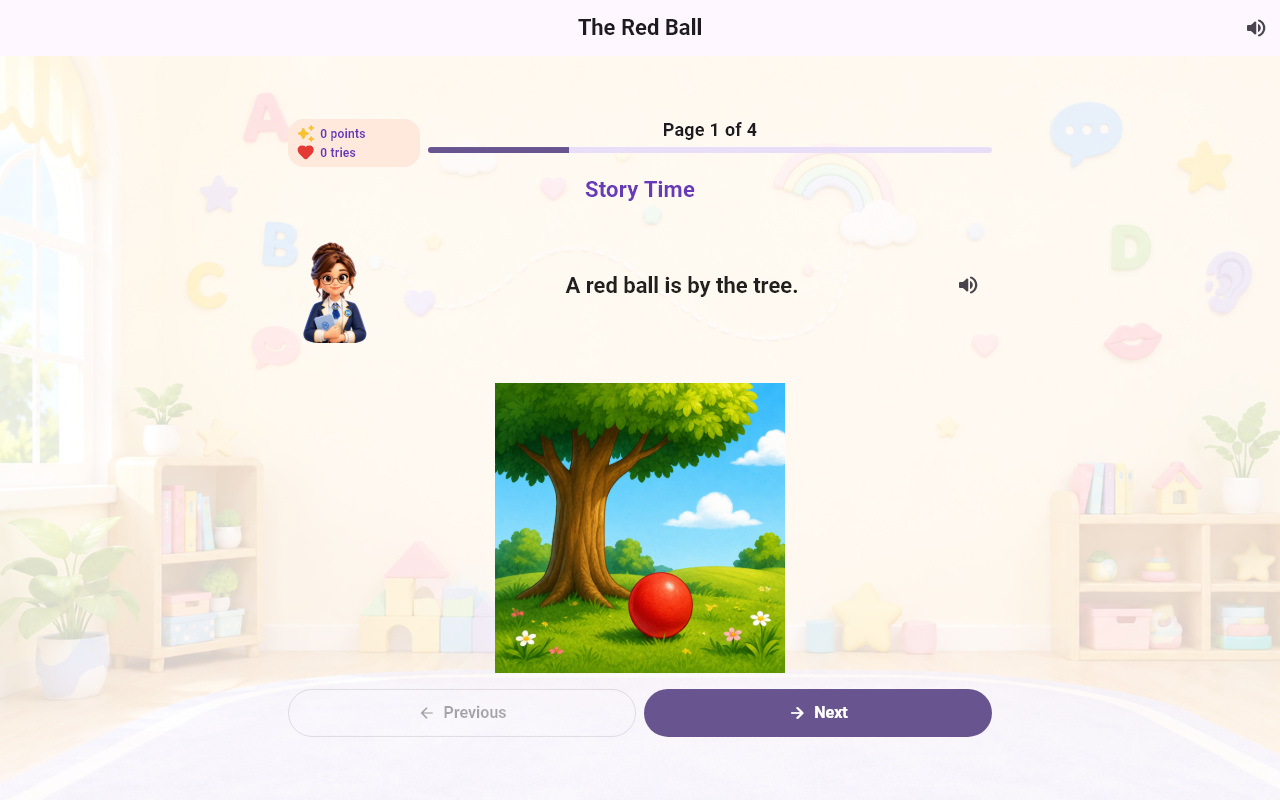
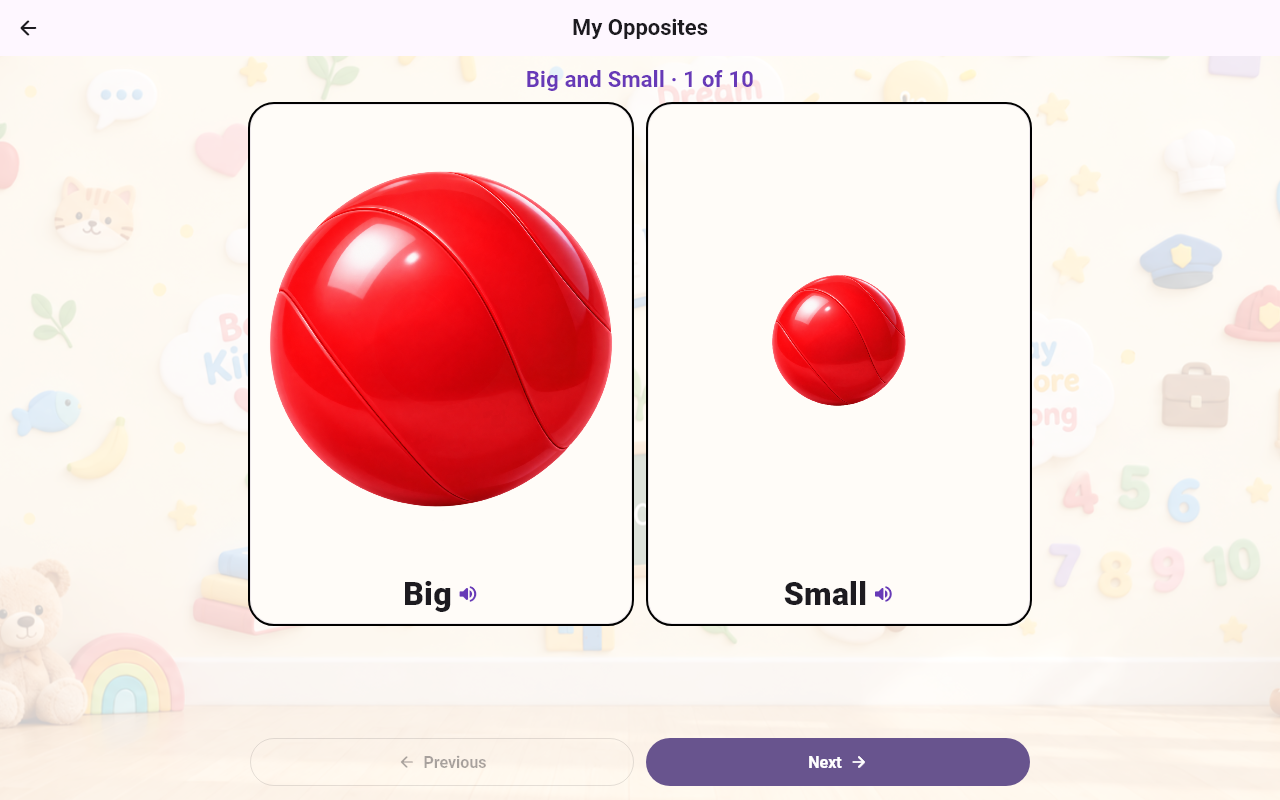
fix(gallery): update Nature Deer a11y, Bookshelf Opposites, partially coloured sailboat, and responsive a11y

diff --git a/index.html b/index.html
@@ -202,11 +202,11 @@
               <article class="gameplay-card" data-slide="0">
                 <div class="gameplay-card-media gameplay-dual-media" data-dual-preview>
                   <div class="gameplay-dual-switcher" role="tablist" aria-label="Mathematics activity previews">
-                    <button type="button" class="gameplay-dual-tab is-active" role="tab" aria-selected="true" aria-controls="math-preview-1" id="math-tab-1" data-preview-target="0">
+                    <button type="button" class="gameplay-dual-tab is-active" role="tab" aria-selected="true" aria-controls="math-preview-1" id="math-tab-1" data-preview-target="0" tabindex="0">
                       <span class="gameplay-dual-tab-dot" aria-hidden="true"></span>
                       Sample 1: Basket Counting
                     </button>
-                    <button type="button" class="gameplay-dual-tab" role="tab" aria-selected="false" aria-controls="math-preview-2" id="math-tab-2" data-preview-target="1">
+                    <button type="button" class="gameplay-dual-tab" role="tab" aria-selected="false" aria-controls="math-preview-2" id="math-tab-2" data-preview-target="1" tabindex="-1">
                       <span class="gameplay-dual-tab-dot" aria-hidden="true"></span>
                       Sample 2: Comparing
                     </button>
@@ -264,11 +264,11 @@
               <article class="gameplay-card" data-slide="1">
                 <div class="gameplay-card-media gameplay-dual-media" data-dual-preview>
                   <div class="gameplay-dual-switcher" role="tablist" aria-label="English Phonics activity previews">
-                    <button type="button" class="gameplay-dual-tab is-active" role="tab" aria-selected="true" aria-controls="english-preview-1" id="english-tab-1" data-preview-target="0">
+                    <button type="button" class="gameplay-dual-tab is-active" role="tab" aria-selected="true" aria-controls="english-preview-1" id="english-tab-1" data-preview-target="0" tabindex="0">
                       <span class="gameplay-dual-tab-dot" aria-hidden="true"></span>
                       Sample 1: Blend SHIP
                     </button>
-                    <button type="button" class="gameplay-dual-tab" role="tab" aria-selected="false" aria-controls="english-preview-2" id="english-tab-2" data-preview-target="1">
+                    <button type="button" class="gameplay-dual-tab" role="tab" aria-selected="false" aria-controls="english-preview-2" id="english-tab-2" data-preview-target="1" tabindex="-1">
                       <span class="gameplay-dual-tab-dot" aria-hidden="true"></span>
                       Sample 2: Letter Sounds
                     </button>
@@ -326,11 +326,11 @@
               <article class="gameplay-card" data-slide="2">
                 <div class="gameplay-card-media gameplay-dual-media" data-dual-preview>
                   <div class="gameplay-dual-switcher" role="tablist" aria-label="Creative Easel activity previews">
-                    <button type="button" class="gameplay-dual-tab is-active" role="tab" aria-selected="true" aria-controls="easel-preview-1" id="easel-tab-1" data-preview-target="0">
+                    <button type="button" class="gameplay-dual-tab is-active" role="tab" aria-selected="true" aria-controls="easel-preview-1" id="easel-tab-1" data-preview-target="0" tabindex="0">
                       <span class="gameplay-dual-tab-dot" aria-hidden="true"></span>
                       Sample 1: Shape Tracing
                     </button>
-                    <button type="button" class="gameplay-dual-tab" role="tab" aria-selected="false" aria-controls="easel-preview-2" id="easel-tab-2" data-preview-target="1">
+                    <button type="button" class="gameplay-dual-tab" role="tab" aria-selected="false" aria-controls="easel-preview-2" id="easel-tab-2" data-preview-target="1" tabindex="-1">
                       <span class="gameplay-dual-tab-dot" aria-hidden="true"></span>
                       Sample 2: Colour &amp; Paint
                     </button>
@@ -354,10 +354,10 @@
                       </button>
                     </div>
                     <div class="gameplay-preview-frame" role="tabpanel" id="easel-preview-2" aria-labelledby="easel-tab-2" data-preview-index="1">
-                      <button type="button" class="gameplay-zoom-btn" aria-label="Enlarge Creative Easel Colour and Paint screenshot" data-zoom-src="assets/screenshots/playroom_easel_paint.png" data-zoom-title="Creative Easel · Colour &amp; Paint" data-zoom-benefit="Open-ended digital colouring with tactile palettes and custom brush widths encourages creative expression, focus, and visual aesthetics.">
+                      <button type="button" class="gameplay-zoom-btn" aria-label="Enlarge Creative Easel Colour and Paint screenshot" data-zoom-src="assets/screenshots/playroom_easel_paint.png" data-zoom-title="Creative Easel · Colour &amp; Paint (Sailboat)" data-zoom-benefit="Open-ended digital colouring with tactile palettes and custom brush widths encourages creative expression, focus, and visual aesthetics.">
                         <img
                           src="assets/screenshots/playroom_easel_paint.png"
-                          alt="MindAgo Creative Easel Colour and Paint activity showing a sailboat canvas, colour palette, and paintbrush tools"
+                          alt="MindAgo Creative Easel Colour &amp; Paint activity showing partially coloured sailboat with active paint palette and brush tools"
                           width="1280"
                           height="800"
                           loading="lazy"
@@ -388,11 +388,11 @@
               <article class="gameplay-card" data-slide="3">
                 <div class="gameplay-card-media gameplay-dual-media" data-dual-preview>
                   <div class="gameplay-dual-switcher" role="tablist" aria-label="Building Blocks activity previews">
-                    <button type="button" class="gameplay-dual-tab is-active" role="tab" aria-selected="true" aria-controls="blocks-preview-1" id="blocks-tab-1" data-preview-target="0">
+                    <button type="button" class="gameplay-dual-tab is-active" role="tab" aria-selected="true" aria-controls="blocks-preview-1" id="blocks-tab-1" data-preview-target="0" tabindex="0">
                       <span class="gameplay-dual-tab-dot" aria-hidden="true"></span>
                       Sample 1: Cat Puzzle
                     </button>
-                    <button type="button" class="gameplay-dual-tab" role="tab" aria-selected="false" aria-controls="blocks-preview-2" id="blocks-tab-2" data-preview-target="1">
+                    <button type="button" class="gameplay-dual-tab" role="tab" aria-selected="false" aria-controls="blocks-preview-2" id="blocks-tab-2" data-preview-target="1" tabindex="-1">
                       <span class="gameplay-dual-tab-dot" aria-hidden="true"></span>
                       Sample 2: Silhouette Match
                     </button>
@@ -450,13 +450,13 @@
               <article class="gameplay-card" data-slide="4">
                 <div class="gameplay-card-media gameplay-dual-media" data-dual-preview>
                   <div class="gameplay-dual-switcher" role="tablist" aria-label="Bookshelf activity previews">
-                    <button type="button" class="gameplay-dual-tab is-active" role="tab" aria-selected="true" aria-controls="bookshelf-preview-1" id="bookshelf-tab-1" data-preview-target="0">
+                    <button type="button" class="gameplay-dual-tab is-active" role="tab" aria-selected="true" aria-controls="bookshelf-preview-1" id="bookshelf-tab-1" data-preview-target="0" tabindex="0">
                       <span class="gameplay-dual-tab-dot" aria-hidden="true"></span>
                       Sample 1: First Words
                     </button>
-                    <button type="button" class="gameplay-dual-tab" role="tab" aria-selected="false" aria-controls="bookshelf-preview-2" id="bookshelf-tab-2" data-preview-target="1">
+                    <button type="button" class="gameplay-dual-tab" role="tab" aria-selected="false" aria-controls="bookshelf-preview-2" id="bookshelf-tab-2" data-preview-target="1" tabindex="-1">
                       <span class="gameplay-dual-tab-dot" aria-hidden="true"></span>
-                      Sample 2: Storybook
+                      Sample 2: Opposites
                     </button>
                   </div>
                   <div class="gameplay-dual-frames">
@@ -478,16 +478,16 @@
                       </button>
                     </div>
                     <div class="gameplay-preview-frame" role="tabpanel" id="bookshelf-preview-2" aria-labelledby="bookshelf-tab-2" data-preview-index="1">
-                      <button type="button" class="gameplay-zoom-btn" aria-label="Enlarge Bookshelf Illustrated Storybook screenshot" data-zoom-src="assets/screenshots/playroom_bookshelf_story.png" data-zoom-title="Bookshelf · Illustrated Storybook (The Red Ball)" data-zoom-benefit="Sentence-level read-aloud storybooks build early listening comprehension, story sequencing, and sentence structure with comforting narrated story time.">
+                      <button type="button" class="gameplay-zoom-btn" aria-label="Enlarge Bookshelf My Opposites interactive book screenshot" data-zoom-src="assets/screenshots/playroom_bookshelf_story.png" data-zoom-title="Bookshelf · Interactive Reader (My Opposites)" data-zoom-benefit="Paired concept picture books introduce comparative vocabulary, early language concepts, and auditory pronunciation in a calming, child-directed format.">
                         <img
                           src="assets/screenshots/playroom_bookshelf_story.png"
-                          alt="MindAgo Bookshelf Story Time page showing The Red Ball illustrated book page with Professor Mindy reading narration"
+                          alt="MindAgo Bookshelf My Opposites interactive book page comparing Big and Small with illustrated concept cards and spoken pronunciation"
                           width="1280"
                           height="800"
                           loading="lazy"
                           decoding="async"
                         >
-                        <span class="gameplay-preview-pill" aria-hidden="true">2. Storybook</span>
+                        <span class="gameplay-preview-pill" aria-hidden="true">2. Opposites</span>
                         <span class="gameplay-zoom-hint" aria-hidden="true">
                           <svg width="14" height="14" viewBox="0 0 24 24" fill="none" stroke="currentColor" stroke-width="2.5" aria-hidden="true"><circle cx="11" cy="11" r="8"></circle><line x1="21" y1="21" x2="16.65" y2="16.65"></line><line x1="11" y1="8" x2="11" y2="14"></line><line x1="8" y1="11" x2="14" y2="11"></line></svg>
                           Enlarge
@@ -512,11 +512,11 @@
               <article class="gameplay-card" data-slide="5">
                 <div class="gameplay-card-media gameplay-dual-media" data-dual-preview>
                   <div class="gameplay-dual-switcher" role="tablist" aria-label="Knowledge Egg activity previews">
-                    <button type="button" class="gameplay-dual-tab is-active" role="tab" aria-selected="true" aria-controls="egg-preview-1" id="egg-tab-1" data-preview-target="0">
+                    <button type="button" class="gameplay-dual-tab is-active" role="tab" aria-selected="true" aria-controls="egg-preview-1" id="egg-tab-1" data-preview-target="0" tabindex="0">
                       <span class="gameplay-dual-tab-dot" aria-hidden="true"></span>
                       Sample 1: Egg Growth
                     </button>
-                    <button type="button" class="gameplay-dual-tab" role="tab" aria-selected="false" aria-controls="egg-preview-2" id="egg-tab-2" data-preview-target="1">
+                    <button type="button" class="gameplay-dual-tab" role="tab" aria-selected="false" aria-controls="egg-preview-2" id="egg-tab-2" data-preview-target="1" tabindex="-1">
                       <span class="gameplay-dual-tab-dot" aria-hidden="true"></span>
                       Sample 2: Companion Reveal
                     </button>
@@ -543,7 +543,7 @@
                       <button type="button" class="gameplay-zoom-btn" aria-label="Enlarge Knowledge Egg Companion Reveal screenshot" data-zoom-src="assets/screenshots/playroom_egg_reward.png" data-zoom-title="Knowledge Egg · Companion Reveal Reward" data-zoom-benefit="Reaching learning milestones rewards children with an adorable companion character reveal, cultivating intrinsic motivation and pride in their learning journey.">
                         <img
                           src="assets/screenshots/playroom_egg_reward.png"
-                          alt="MindAgo Knowledge Egg celebration screen showing hatched companion reward Flora with joyful celebration"
+                          alt="MindAgo Knowledge Egg celebration screen showing hatched companion reward Nature Deer with joyful celebration"
                           width="1280"
                           height="800"
                           loading="lazy"

diff --git a/script.js b/script.js
@@ -244,39 +244,114 @@ if (carouselTrack) {
 
 
 // ==========================================================================
-// Dual-Preview Sample Switcher (Mobile)
+// Dual-Preview Sample Switcher (Responsive Accessibility)
 // ==========================================================================
 
-document.querySelectorAll("[data-dual-preview]").forEach((container) => {
-  const tabs = Array.from(container.querySelectorAll("[data-preview-target]"));
-  const frames = Array.from(container.querySelectorAll(".gameplay-preview-frame"));
+const dualContainers = Array.from(document.querySelectorAll("[data-dual-preview]"));
 
-  tabs.forEach((tab, index) => {
-    tab.addEventListener("click", () => {
+if (dualContainers.length > 0) {
+  const desktopQuery = window.matchMedia("(min-width: 768px)");
+
+  const updateDualAccessibility = () => {
+    const isDesktop = desktopQuery.matches;
+
+    dualContainers.forEach((container) => {
+      const switcher = container.querySelector(".gameplay-dual-switcher");
+      const tabs = Array.from(container.querySelectorAll("[data-preview-target]"));
+      const frames = Array.from(container.querySelectorAll(".gameplay-preview-frame"));
+
+      if (switcher) {
+        if (isDesktop) {
+          switcher.setAttribute("aria-hidden", "true");
+        } else {
+          switcher.removeAttribute("aria-hidden");
+        }
+      }
+
+      if (isDesktop) {
+        // Desktop: preview frames are displayed simultaneously side-by-side in a 2-column grid.
+        // Strip tabpanel roles and aria-labelledby so screen readers do not report orphaned tabpanels.
+        frames.forEach((frame) => {
+          frame.removeAttribute("role");
+          frame.removeAttribute("aria-labelledby");
+          frame.removeAttribute("aria-hidden");
+          const zoomBtn = frame.querySelector(".gameplay-zoom-btn");
+          if (zoomBtn) zoomBtn.removeAttribute("tabindex");
+        });
+        tabs.forEach((tab) => {
+          tab.setAttribute("tabindex", "-1");
+        });
+      } else {
+        // Mobile: tabpanel semantics with roving tabindex
+        frames.forEach((frame) => {
+          frame.setAttribute("role", "tabpanel");
+          const idx = frame.dataset.previewIndex;
+          const tab = tabs[parseInt(idx, 10)];
+          if (tab) {
+            frame.setAttribute("aria-labelledby", tab.id);
+          }
+          const isActive = frame.classList.contains("is-active");
+          frame.setAttribute("aria-hidden", isActive ? "false" : "true");
+          const zoomBtn = frame.querySelector(".gameplay-zoom-btn");
+          if (zoomBtn) {
+            zoomBtn.setAttribute("tabindex", isActive ? "0" : "-1");
+          }
+        });
+        tabs.forEach((tab) => {
+          const isActive = tab.classList.contains("is-active");
+          tab.setAttribute("tabindex", isActive ? "0" : "-1");
+          tab.setAttribute("aria-selected", isActive ? "true" : "false");
+        });
+      }
+    });
+  };
+
+  dualContainers.forEach((container) => {
+    const tabs = Array.from(container.querySelectorAll("[data-preview-target]"));
+    const frames = Array.from(container.querySelectorAll(".gameplay-preview-frame"));
+
+    const activateTab = (tab) => {
       const targetIndex = tab.dataset.previewTarget;
       tabs.forEach((t) => {
         const isActive = t === tab;
         t.classList.toggle("is-active", isActive);
         t.setAttribute("aria-selected", isActive ? "true" : "false");
+        t.setAttribute("tabindex", isActive ? "0" : "-1");
       });
       frames.forEach((frame) => {
         const isActive = frame.dataset.previewIndex === targetIndex;
         frame.classList.toggle("is-active", isActive);
+        frame.setAttribute("aria-hidden", isActive ? "false" : "true");
+        const zoomBtn = frame.querySelector(".gameplay-zoom-btn");
+        if (zoomBtn) {
+          zoomBtn.setAttribute("tabindex", isActive ? "0" : "-1");
+        }
+      });
+    };
+
+    tabs.forEach((tab, index) => {
+      tab.addEventListener("click", () => activateTab(tab));
+
+      tab.addEventListener("keydown", (e) => {
+        if (e.key === "ArrowRight" || e.key === "ArrowDown") {
+          e.preventDefault();
+          const next = tabs[(index + 1) % tabs.length];
+          activateTab(next);
+          next.focus();
+        } else if (e.key === "ArrowLeft" || e.key === "ArrowUp") {
+          e.preventDefault();
+          const prev = tabs[(index - 1 + tabs.length) % tabs.length];
+          activateTab(prev);
+          prev.focus();
+        }
       });
     });
-
-    tab.addEventListener("keydown", (e) => {
-      if (e.key === "ArrowRight" || e.key === "ArrowDown") {
-        e.preventDefault();
-        const next = tabs[(index + 1) % tabs.length];
-        next.click();
-        next.focus();
-      } else if (e.key === "ArrowLeft" || e.key === "ArrowUp") {
-        e.preventDefault();
-        const prev = tabs[(index - 1 + tabs.length) % tabs.length];
-        prev.click();
-        prev.focus();
-      }
-    });
   });
-});
+
+  if (typeof desktopQuery.addEventListener === "function") {
+    desktopQuery.addEventListener("change", updateDualAccessibility);
+  } else if (typeof desktopQuery.addListener === "function") {
+    desktopQuery.addListener(updateDualAccessibility);
+  }
+  updateDualAccessibility();
+}
